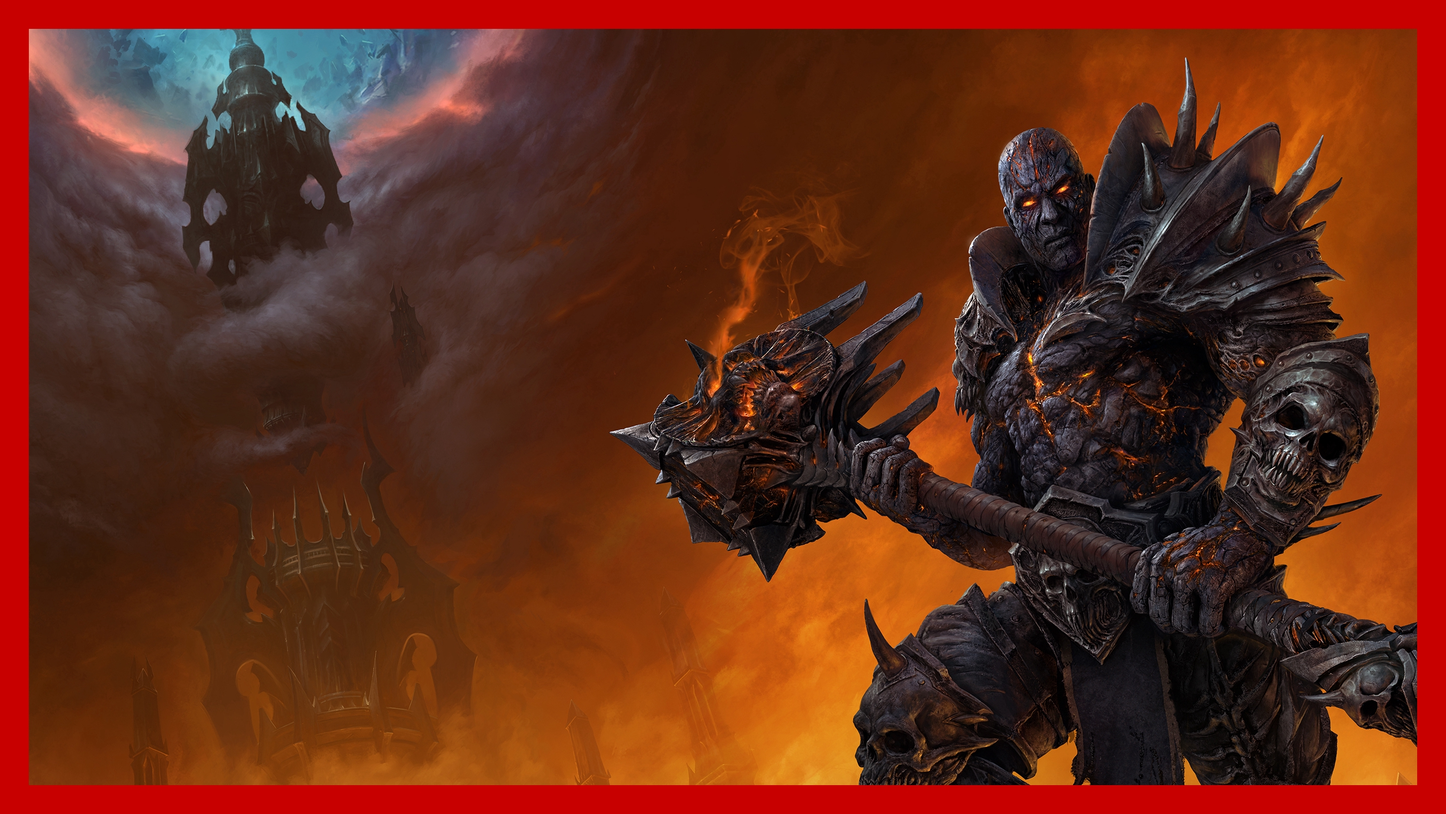
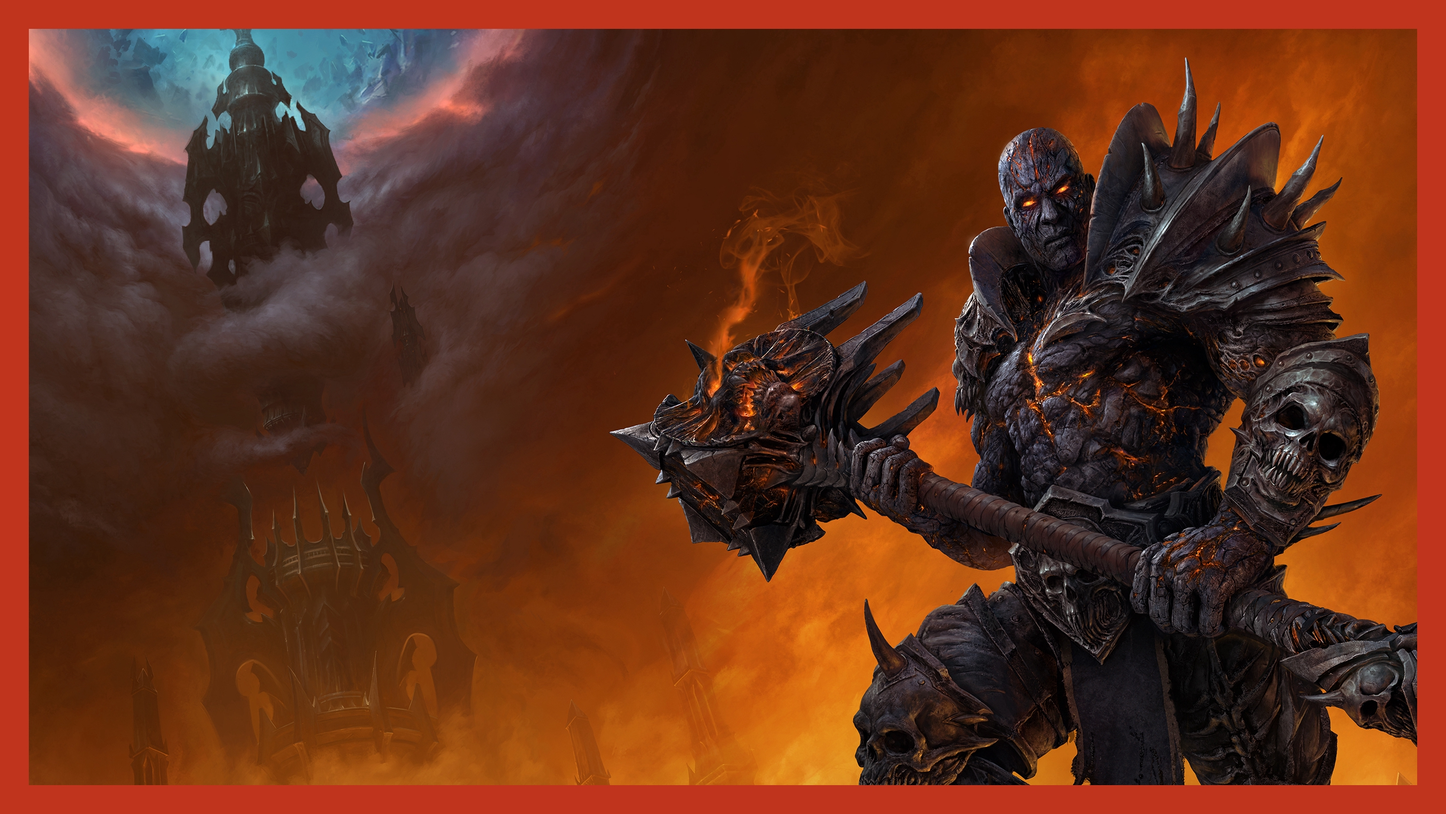
clean up and windows build

Changed region(s): [[0.0, 0.0, 1.0, 1.0]]

diff --git a/cmd/root.go b/cmd/root.go
@@ -27,16 +27,8 @@ var cfgFile string
 // rootCmd represents the base command when called without any subcommands
 var rootCmd = &cobra.Command{
 	Use:   "starlu",
-	Short: "A brief description of your application",
-	Long: `A longer description that spans multiple lines and likely contains
-examples and usage of using your application. For example:
-
-Cobra is a CLI library for Go that empowers applications.
-This application is a tool to generate the needed files
-to quickly create a Cobra application.`,
-	// Uncomment the following line if your bare application
-	// has an action associated with it:
-	//	Run: func(cmd *cobra.Command, args []string) { },
+	Short: "Starlu is a CLI tool for supporting common tasks for pragalicious editors",
+	Long:  "Starlu is a CLI tool for supporting common tasks for pragalicious editors",
 }
 
 // Execute adds all child commands to the root command and sets flags appropriately.
@@ -48,19 +40,19 @@ func Execute() {
 	}
 }
 
-func init() {
-	// cobra.OnInitialize(initConfig)
+// func init() {
+// cobra.OnInitialize(initConfig)
 
-	// Here you will define your flags and configuration settings.
-	// Cobra supports persistent flags, which, if defined here,
-	// will be global for your application.
+// Here you will define your flags and configuration settings.
+// Cobra supports persistent flags, which, if defined here,
+// will be global for your application.
 
-	// rootCmd.PersistentFlags().StringVar(&cfgFile, "config", "", "config file (default is $HOME/.starlu.yaml)")
+// rootCmd.PersistentFlags().StringVar(&cfgFile, "config", "", "config file (default is $HOME/.starlu.yaml)")
 
-	// Cobra also supports local flags, which will only run
-	// when this action is called directly.
-	// rootCmd.Flags().BoolP("toggle", "t", false, "Help message for toggle")
-}
+// Cobra also supports local flags, which will only run
+// when this action is called directly.
+// rootCmd.Flags().BoolP("toggle", "t", false, "Help message for toggle")
+// }
 
 // initConfig reads in config file and ENV variables if set.
 // func initConfig() {

diff --git a/imageprocessing/helper.go b/imageprocessing/helper.go
@@ -47,22 +47,22 @@ func Crop(originalImagePath string) (string, error) {
 	if format == "jpg" || format == "jpeg" {
 		sourceImage, err = jpeg.Decode(sourceFile)
 		if err != nil {
-			return "error", errors.New("Could not decode the image")
+			return "error", errors.New("Could not decode the image " + originalImagePath)
 		}
 	} else if format == "png" {
 		sourceImage, err = png.Decode(sourceFile)
 		if err != nil {
-			return "error", errors.New("Could not decode the image")
+			return "error", errors.New("Could not decode the image " + originalImagePath)
 		}
 	} else {
-		return "error", errors.New("Only jpeg and png images are supported")
+		return "error", errors.New("Only jpeg and png images are supported " + originalImagePath)
 	}
 
 	maxX := sourceImage.Bounds().Max.X
 	maxY := sourceImage.Bounds().Max.Y
 
 	if maxX < 1200 || maxY < 675 {
-		return "error", errors.New("Image too small")
+		return "error", errors.New("Image too small: " + originalImagePath)
 	}
 
 	xRatio := float64(maxX) / 1200
@@ -76,7 +76,7 @@ func Crop(originalImagePath string) (string, error) {
 	cropableImage, ok := sourceImage.(SubImager)
 
 	if ok != true {
-		return "error", errors.New("Not a SubImage interface")
+		return "error", errors.New("Not a SubImage interface: " + originalImagePath)
 	}
 
 	marginX := (maxX - rectX) / 2.0
@@ -89,7 +89,7 @@ func Crop(originalImagePath string) (string, error) {
 	lowerBorder := image.Rect(0+marginX, (rectY-borderwidth)+marginY, rectX+marginX, rectY+marginY)
 	leftBorder := image.Rect(0+marginX, 0+marginY, borderwidth+marginX, rectY+marginY)
 	rightBorder := image.Rect((rectX+marginX)-borderwidth, 0+marginY, rectX+marginX, rectY+marginY)
-	colorRed := color.RGBA{200, 0, 0, 255}
+	colorRed := color.RGBA{192, 51, 29, 255}
 
 	croppedImageBoundsInOriginalAxis := croppedImage.Bounds()
 	drawableCropped := image.NewRGBA(croppedImageBoundsInOriginalAxis)

diff --git a/cmd/teaser.go b/cmd/teaser.go
@@ -25,28 +25,23 @@ import (
 // teaserCmd represents the teaser command
 var teaserCmd = &cobra.Command{
 	Use:   "teaser image_path",
-	Short: "A brief description of your command",
-	Long: `A longer description that spans multiple lines and likely contains examples
-and usage of using your command. For example:
-
-Cobra is a CLI library for Go that empowers applications.
-This application is a tool to generate the needed files
-to quickly create a Cobra application.`,
+	Short: "Crops, resizes and puts border on provided image in order to create a teaser",
+	Long:  "Crops, resizes and puts border on provided image in order to create a teaser",
 	Args: func(cmd *cobra.Command, args []string) error {
 		if len(args) < 1 {
-			return errors.New("requires a color argument")
+			return errors.New("Requires one or more filenames")
 		}
 		return nil
 	},
 	RunE: func(cmd *cobra.Command, args []string) error {
-		println("Creating teaser image(s) now")
+		println("Starting now... ☕")
 		for _, s := range args {
-			println("Processing " + s + " now...")
+			// println("Processing " + s + " now...")
 			output, err := imageprocessing.Crop(s)
 			if err != nil {
 				return err
 			}
-			println("Created: " + output)
+			println("➡ " + output)
 		}
 		return nil
 	},

diff --git a/Readme.md b/Readme.md
@@ -1,3 +1,16 @@
 # Starlu
 
 Small golang CLI app to resize/crop/edit images for Pragalicious
+
+Made with Cobra: https://github.com/spf13/cobra/blob/master/cobra/README.md
+
+## Building
+
+    go build
+
+    GOOS=windows go build
+
+## Run tests
+
+    cd imageprocessing
+    go test -v
